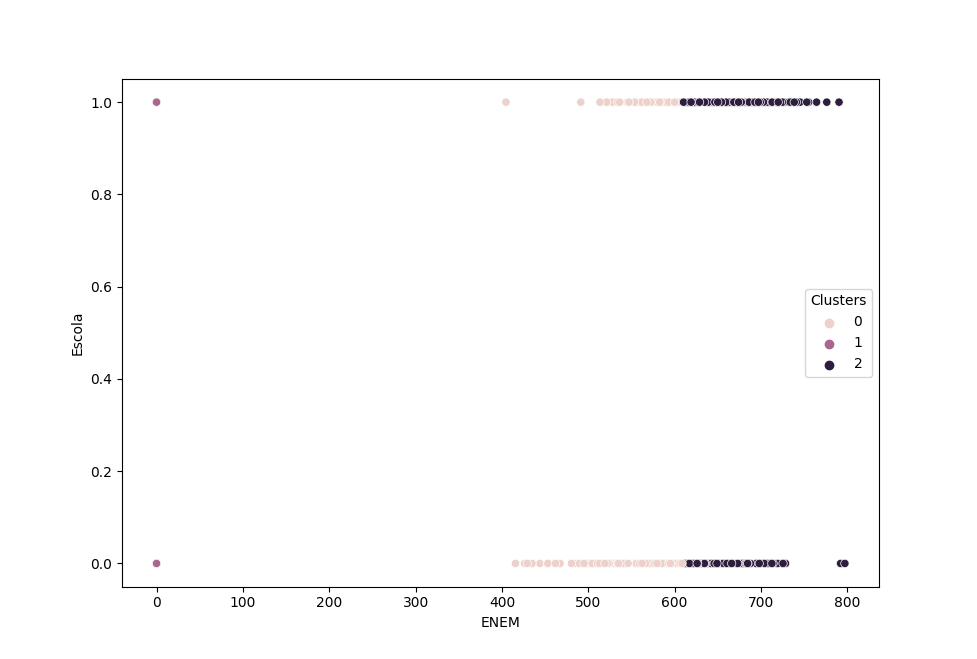
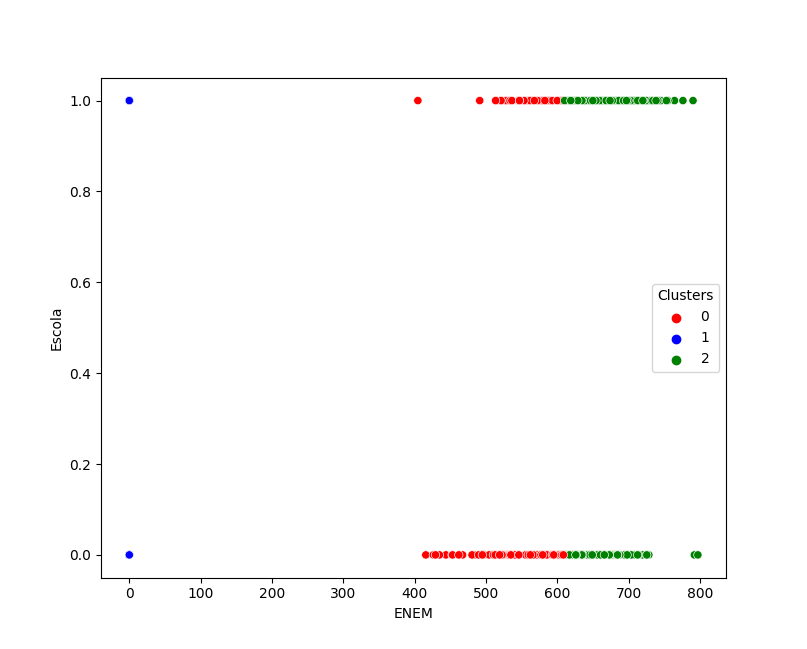
Change color image

diff --git a/src/main.py b/src/main.py
@@ -139,7 +139,7 @@ def main():
     # Plotando o clustering
     cmap = matplotlib.colors.ListedColormap(['red', 'blue', 'green'], "")
     norm = matplotlib.colors.BoundaryNorm(boundaries=[0, 1, 2, 3], ncolors=3, clip=True)
-    sns.scatterplot(x='ENEM', y = 'Escola', hue = 'Clusters', data = df, cmap = cmap, norm = norm)
+    sns.scatterplot(x='ENEM', y = 'Escola', hue = 'Clusters', data = df, palette = cmap, hue_norm = norm)
 
 
     plt.show()
